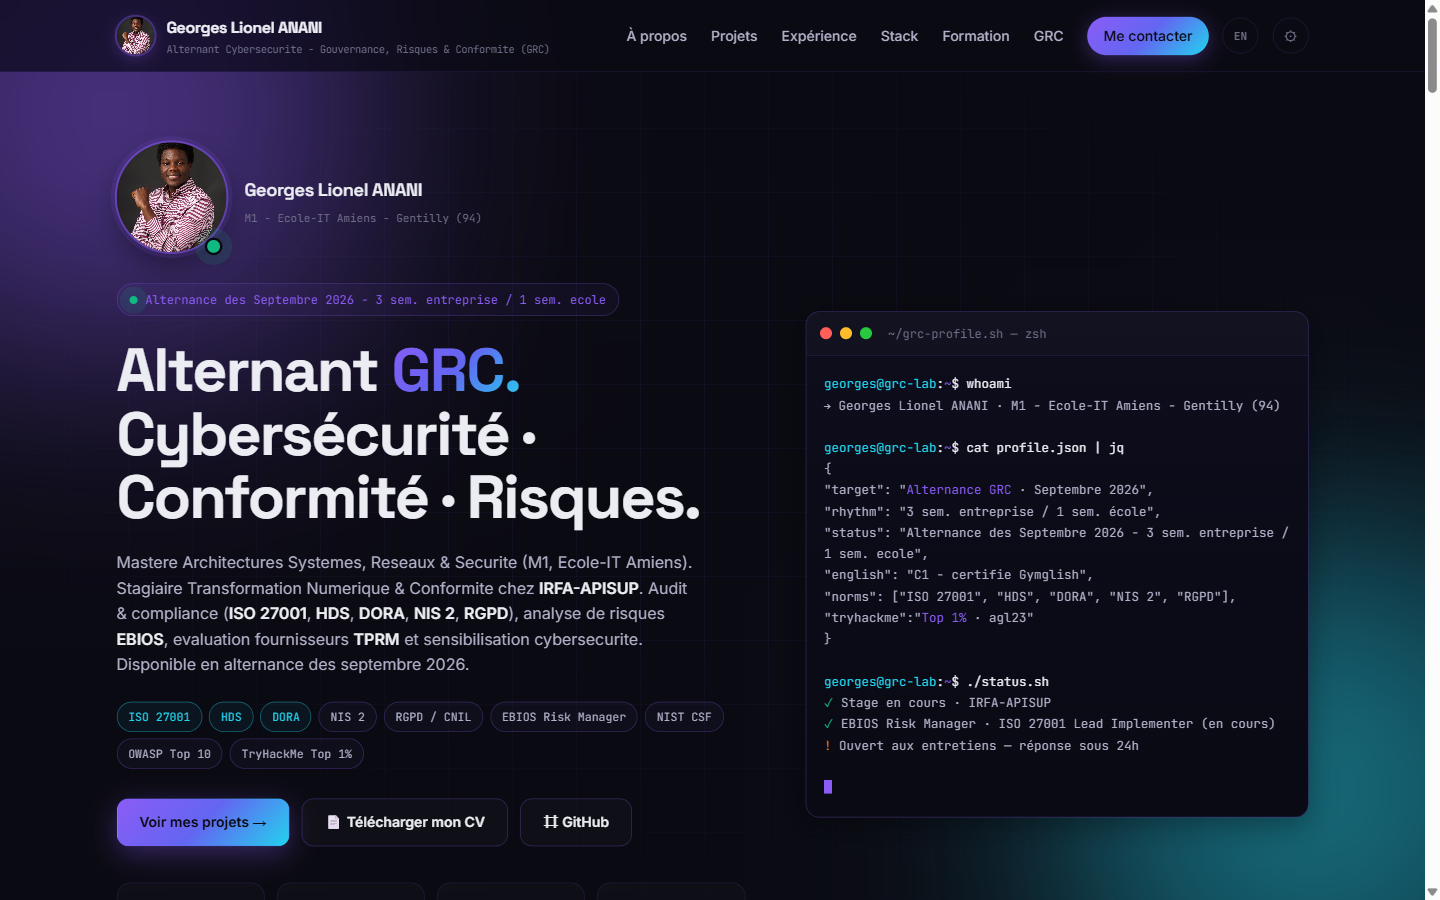
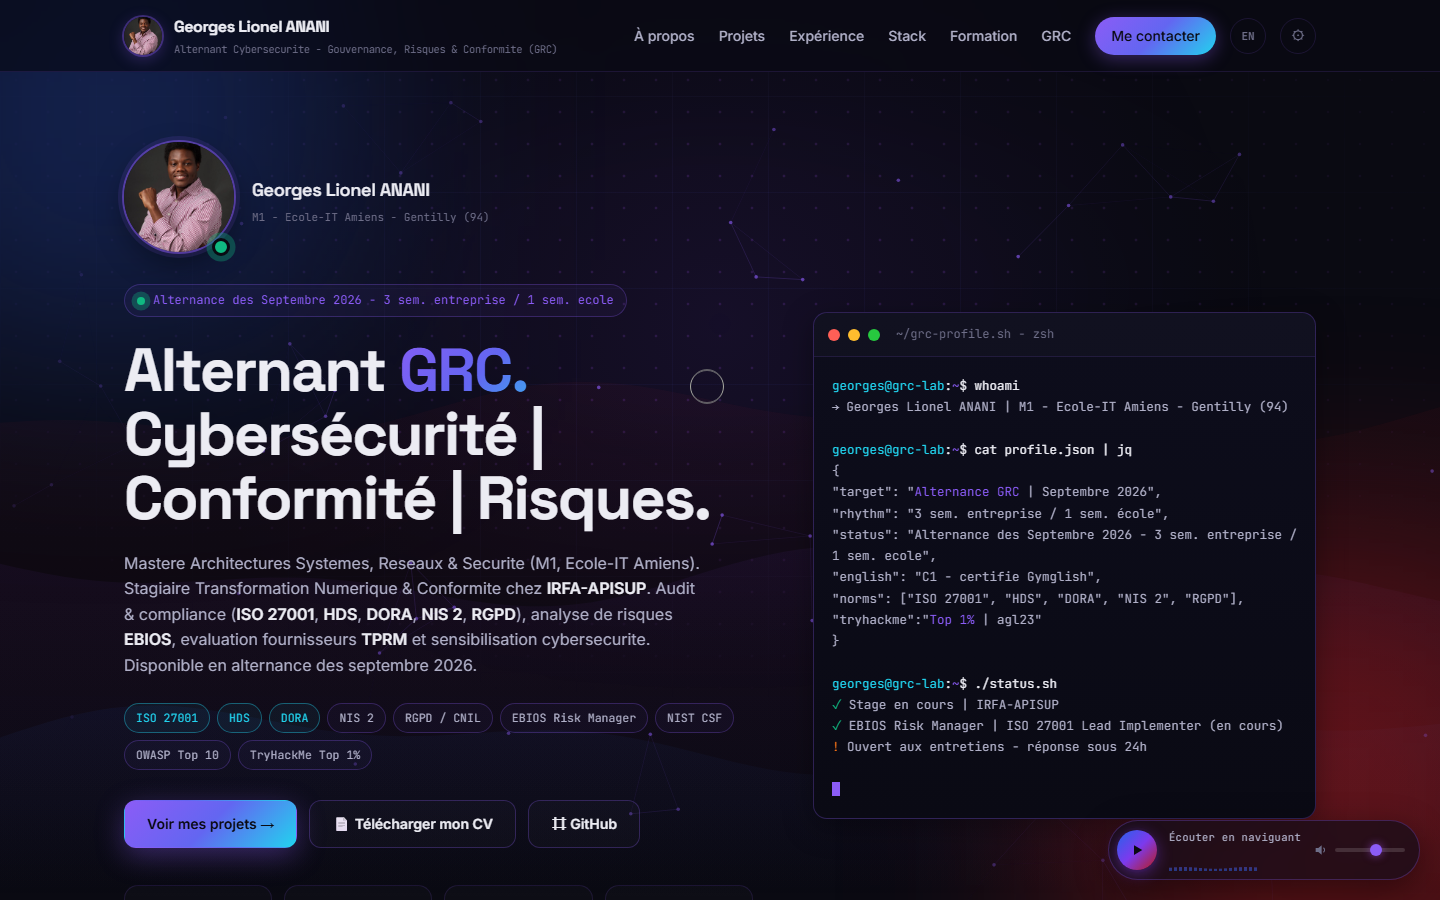
docs: refresh production screenshot in README
Nouvelle capture de la prod (hero "Alternant GRC", terminal animé,
nav FR/EN, dock audio) et mise à jour de la date de légende.

diff --git a/README.md b/README.md
@@ -28,7 +28,7 @@ Vercel (frontend React) ──rewrites /api/* + /grc/*──▶ Render (FastAPI)
 
 ![Screenshot prod live](frontend/public/screenshots/prod-vercel-home.png)
 
-> ℹ Capture du site en production le `2026-05-29` | bascule FR↔EN native sans rechargement, section GRC, terminal animé.
+> ℹ Capture du site en production le `2026-06-27` | bascule FR↔EN native sans rechargement, section GRC, terminal animé.
 
 ---
 
